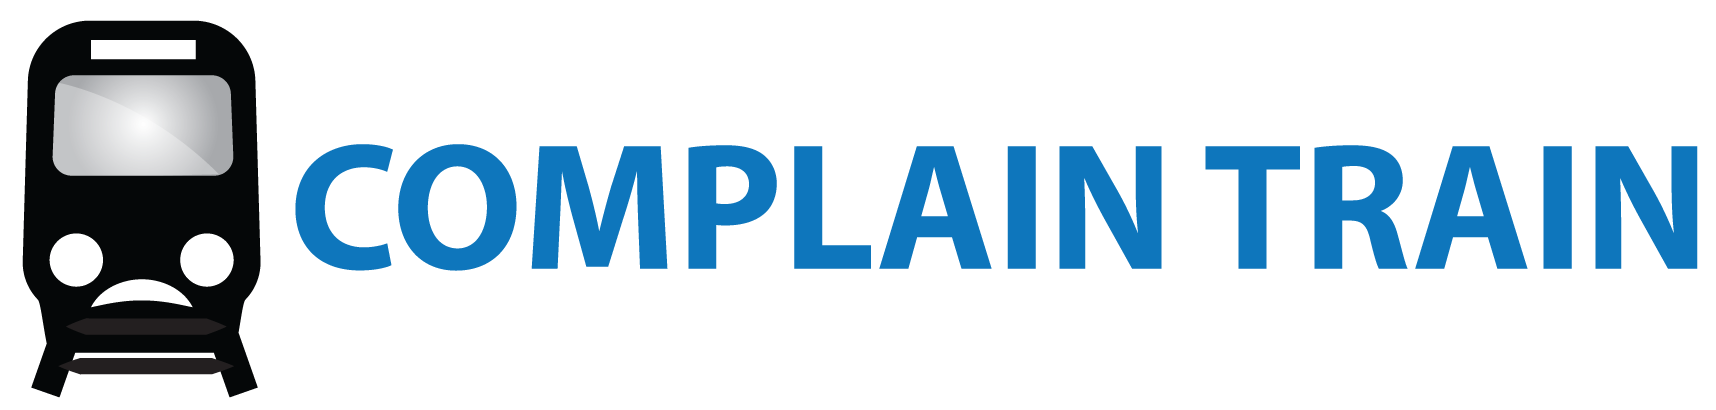
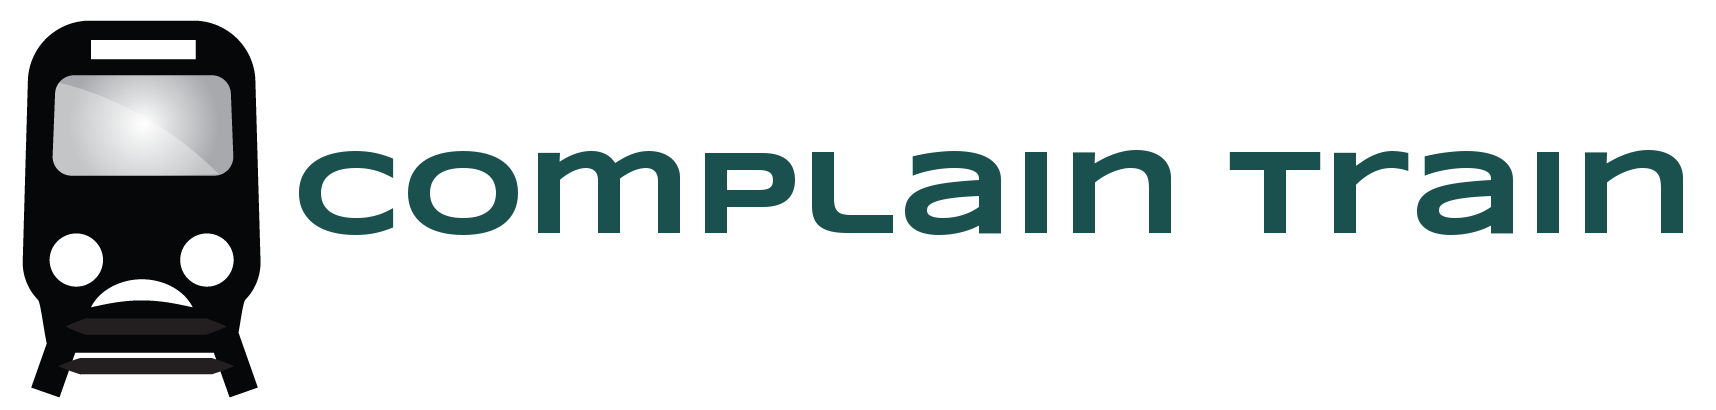
More UI tweaks, nearly ready to make a complaint

Changed region(s): [[0.1544, 0.3512, 0.9883, 0.6732]]

diff --git a/ComplainTrain.Web/wwwroot/js/site.min.js b/ComplainTrain.Web/wwwroot/js/site.min.js
@@ -1,1 +1,1 @@
-function submitStation(){var t=$("#selected-station").val(),i=$(this).data("url"),n=$("#station-search");$(n).empty();$(n).append(loadingIcon);$.get(i,{selectedStation:t},function(t){var i=$("#departures");t==null||t.departureModels==null?($(n).hide(),$(i).append(noTrains)):($(n).hide(),$.each(t.departureModels,function(n,t){var f=t.cancellationReason==null?!1:!0,e=t.delayReason==null?!1:!0,o=t.expected=="On time"?!0:!1,r="",u;r=o?departureBoardHtml.replace("{panelColour}","success").replace("{headingText}",allGoodIcon):f||e?departureBoardHtml.replace("{panelColour}","danger").replace("{headingText}",warningIcon):departureBoardHtml.replace("{panelColour}","warning").replace("{headingText}",alertIcon);u=r.replace("{destination}",t.destinationName).replace("{due}",t.due).replace("{expected}",t.expected).replace("{platform}",t.platform).replace("{operator}",t.operator);$(i).append(u)}),$(i).append(searchAgainNoMessage))})}var departureBoardHtml='<div class="col-md-3"><div class="panel panel-{panelColour} departure-board"><div class="panel-heading"><h3 class="panel-title">{headingText}<\/h3><\/div><ul class="list-group"><li class="list-group-item"><label>Destination:<\/label><span>{destination}<\/span><\/li><li class="list-group-item"><label>Due:<\/label><span>{due}<\/span><\/li><li class="list-group-item"><label>Expected:<\/label><span>{expected}<\/span><\/li><li class="list-group-item"><label>Platform:<\/label><span>{platform}<\/span><\/li><\/li><li class="list-group-item"><label>Operator:<\/label><span>{operator}<\/span><\/li><\/ul><\/div><\/div>',noTrains='<div class="col-md-1"><\/div><div class="col-md-10"><h4>There doesn\'t appear to be any trains running today...<\/h4><a id="search-again" href="/" class="btn btn-default">Search again<\/a><\/div><div class="col-md-1"><\/div>',searchAgainNoMessage='<div class="col-md-12"><a id="search-again" href="/" class="btn btn-default">Search again<\/a><\/div>',warningIcon='Warning <i class="fa fa-exclamation-circle" aria-hidden="true"><\/i>',alertIcon='Alert <i class="fa fa-exclamation-triangle" aria-hidden="true"><\/i>',allGoodIcon='All good! <i class="fa fa-check-circle-o" aria-hidden="true"><\/i>',loadingIcon='<i class="fa fa-cog fa-spin fa-3x fa-fw"><\/i><span class="sr-only">Loading...<\/span>';$(function(){$("#station").autocomplete({source:function(n,t){$.ajax({url:"/Home/SearchStations",dataType:"json",data:{term:n.term},success:function(n){t(n)}})},minLength:1,select:function(n,t){$("#station").text(t.item.value);$("#selected-station").val(t.item.key)}});$("#submit-station").click(submitStation)});
+function submitStation(){var t=$("#selected-station").val(),i=$(this).data("url"),n=$("#station-search");$(n).empty();$(n).append(loadingIcon);$.get(i,{selectedStation:t},function(t){var i=$("#departures"),r=$("#departures-table > tbody");t==null||t.departureModels==null?($(n).hide(),$(departureSection).clear().append(noTrains)):($(n).hide(),$.each(t.departureModels,function(n,t){var f=t.cancellationReason==null?!1:!0,e=t.delayReason==null?!1:!0,o=t.expected=="On time"?!0:!1,i="",u;i=o?departureRowHtml.replace("{context}","success").replace("{status}",allGoodIcon):f||e?departureRowHtml.replace("{context}","danger").replace("{status}",warningIcon):departureRowHtml.replace("{context}","warning").replace("{status}",alertIcon);u=i.replace("{destination}",t.destinationName).replace("{due}",t.due).replace("{expected}",t.expected).replace("{platform}",t.platform).replace("{operator}",t.operator);$(r).append(u)}),$(i).append(searchAgainNoMessage),$(i).show())})}var departureRowHtml='<tr class="{context}"><td>{status}<\/td><td>{destination}<\/td><td>{due}<\/td><td>{expected}<\/td><td>{platform}<\/td><td>{operator}<\/td><\/tr>',noTrains='<div class="col-md-1"><\/div><div class="col-md-10"><h4>There doesn\'t appear to be any trains running today...<\/h4><a id="search-again" href="/" class="btn btn-default">Search again<\/a><\/div><div class="col-md-1"><\/div>',searchAgainNoMessage='<div class="col-md-12"><a id="search-again" href="/" class="btn btn-default">Search again<\/a><\/div>',warningIcon='<i class="fa fa-exclamation-circle" aria-hidden="true"><\/i>',alertIcon='<i class="fa fa-exclamation-triangle" aria-hidden="true"><\/i>',allGoodIcon='<i class="fa fa-check-circle-o" aria-hidden="true"><\/i>',loadingIcon='<i class="fa fa-cog fa-spin fa-3x fa-fw"><\/i><span class="sr-only">Loading...<\/span>';$(function(){$("#departures").hide();$("#station").autocomplete({source:function(n,t){$.ajax({url:"/Home/SearchStations",dataType:"json",data:{term:n.term},success:function(n){t(n)}})},minLength:1,select:function(n,t){$("#station").text(t.item.value);$("#selected-station").val(t.item.key)}});$("#submit-station").click(submitStation)});

diff --git a/ComplainTrain.Web/wwwroot/js/site.js b/ComplainTrain.Web/wwwroot/js/site.js
@@ -1,10 +1,11 @@
 var departureRowHtml = '<tr class="{context}">' +
-    '<td>{status}</td>' +
+    '<td class="status-body">{status}</td>' +
     '<td>{destination}</td>' +
     '<td>{due}</td>' +
     '<td>{expected}</td>' +
     '<td>{platform}</td>' +
-    '<td>{operator}</td>' +
+    '<td class="operator-body">{operator}</td>' +
+    '{reason}'
     '</tr>';
 
 var noTrains = '<div class="col-md-1"></div>' +
@@ -22,6 +23,8 @@ var warningIcon = '<i class="fa fa-exclamation-circle" aria-hidden="true"></i>';
 var alertIcon = '<i class="fa fa-exclamation-triangle" aria-hidden="true"></i>';
 var allGoodIcon = '<i class="fa fa-check-circle-o" aria-hidden="true"></i>';
 var loadingIcon = '<i class="fa fa-cog fa-spin fa-3x fa-fw"></i><span class="sr-only">Loading...</span>';
+
+var reasonInput = '<input type="hidden" value="{reason-string}" />'
 
 $(function () {
     $('#departures').hide();
@@ -46,10 +49,22 @@ $(function () {
     });
 
     $('#submit-station').click(submitStation);
+    $(document).on('click', '#departures-table > tbody > tr.danger, #departures-table > tbody > tr.warning', showComplainModal);
 });
+
+function showComplainModal() {
+    var row = $(this);
+    $('#complain-modal').modal();
+    $('#complain-modal').show();
+}
 
 function submitStation() {
     var selectedStation = $('#selected-station').val();
+
+    if (selectedStation == '') {
+        // Catch this and show a popover
+    }
+
     var url = $(this).data('url');
 
     var stationSearch = $("#station-search");
@@ -77,10 +92,21 @@ function submitStation() {
                     row = departureRowHtml.replace('{context}', 'success').replace('{status}', allGoodIcon);
                 }
                 else if (cancellationReasonPresent || delayReasonPresent) {
-                    row = departureRowHtml.replace('{context}', 'danger').replace('{status}', warningIcon);
+                    if (!cancellationReasonPresent && delayReasonPresent) {
+                        reasonInput = reasonInput.replace('{reason-string}', value.delayReason);
+                    }
+                    else {
+                        reasonInput = reasonInput.replace('{reason-string}', value.cancellationReason);
+                    }
+                    
+                    row = departureRowHtml.replace('{context}', 'danger').replace('{status}', warningIcon).replace('{reason}', reasonInput);
                 }
                 else {
                     row = departureRowHtml.replace('{context}', 'warning').replace('{status}', alertIcon);
+                }
+
+                if (value.platform == null) {
+                    value.platform = '';
                 }
 
                 var departure = row.replace('{destination}', value.destinationName).replace('{due}', value.due).replace('{expected}', value.expected).replace('{platform}', value.platform).replace('{operator}', value.operator);

diff --git a/ComplainTrain.Web/wwwroot/css/site.min.css b/ComplainTrain.Web/wwwroot/css/site.min.css
@@ -1,1 +1,1 @@
-.navbar{border-radius:0}.navbar-brand{padding-top:5px}p{font-family:'Open Sans',sans-serif}div#logo-banner{text-align:center;color:#3892d2}div#logo-banner img#train-image{width:50%}div#logo-banner h1{margin-top:0;font-family:'Faster One',cursive}div#hero{margin-top:5%;text-align:center;color:#3892d2}div#hero input{color:#3892d2}div#hero input#station{margin:0 auto;width:33%}div#departures{text-align:center}div#departures a{color:#3892d2}div#departures a#search-again{margin:10px}div#departures .departure-board{margin:0 auto;width:80%;font-size:.9em;margin-bottom:20px}div#departures .departure-board ul{text-align:left}div#departures .departure-board ul li.list-group-item{padding-top:5px;padding-bottom:5px}div#departures .departure-board ul li.list-group-item label{min-width:90px}@media(max-width:420px){div#hero div#station-search h3{font-size:20px}div#hero input#station{margin:0 auto;width:80%}div#logo-banner img#train-image{width:100%}}
+.navbar{border-radius:0}.navbar-brand{padding-top:5px}p{font-family:'Open Sans',sans-serif}div#logo-banner{text-align:center;color:#3892d2}div#logo-banner img#train-image{width:50%}div#logo-banner h1{margin-top:0;font-family:'Faster One',cursive}div#hero{margin-top:5%;text-align:center;color:#3892d2}div#hero input{color:#3892d2}div#hero input#station{margin:0 auto;width:33%}div#departures{text-align:center}div#departures a{color:#3892d2}div#departures a#search-again{margin:10px}div#departures table#departures-table.table thead{font-weight:bold}div#departures table#departures-table.table tbody tr.success td:first-child{color:#008000}div#departures table#departures-table.table tbody tr.danger td:first-child{color:#f00}div#departures table#departures-table.table tbody tr.warning td:first-child{color:#ffa500}@media(max-width:420px){div#hero div#station-search h3{font-size:20px}div#hero input#station{margin:0 auto;width:80%}div#logo-banner img#train-image{width:100%}}

diff --git a/ComplainTrain.Web/wwwroot/css/site.css b/ComplainTrain.Web/wwwroot/css/site.css
@@ -15,12 +15,12 @@ p
 div#logo-banner
 {
     text-align:center;
-    color: #3892D2;
+    color: #1D504E;
 }
 
 div#logo-banner img#train-image
 {
-    width:50%;
+    width:45%;
 }
 
 div#logo-banner h1
@@ -33,12 +33,12 @@ div#hero
 {
     margin-top:5%;
     text-align:center;
-    color: #3892D2;
+    color: #1D504E;
 }
 
 div#hero input
 {
-    color: #3892D2;
+    color: #1D504E;
 }
 
 div#hero input#station
@@ -53,7 +53,7 @@ div#departures
 }
 
 div#departures a {
-    color:#3892D2;
+    color:#1D504E;
 }
 
 div#departures a#search-again {
@@ -68,12 +68,30 @@ div#departures table#departures-table.table tbody tr.success td:first-child {
     color:green;
 }
 
+div#departures table#departures-table.table tbody tr.danger {
+    cursor:pointer;
+}
 div#departures table#departures-table.table tbody tr.danger td:first-child {
     color:red;
 }
 
+div#departures table#departures-table.table tbody tr.warning {
+    cursor: pointer;
+}
 div#departures table#departures-table.table tbody tr.warning td:first-child {
     color:orange;
+}
+
+@media (max-width: 600px) {
+    div#departures table#departures-table.table thead tr td.status-head,
+    div#departures table#departures-table.table thead tr td.operator-head,
+    div#departures table#departures-table.table tbody tr td.operator-body,
+    div#departures table#departures-table.table tbody tr td.status-body {
+        display:none;
+    }
+    div#logo-banner img#train-image {
+        width:80%;
+    }
 }
 
 @media (max-width: 420px) {
